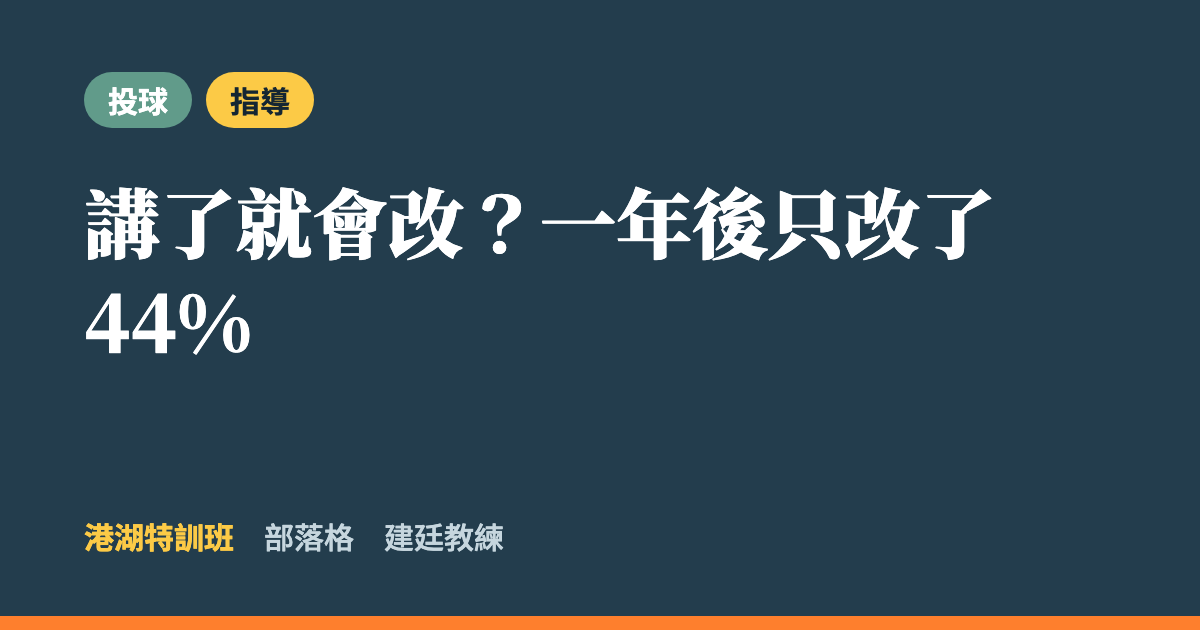
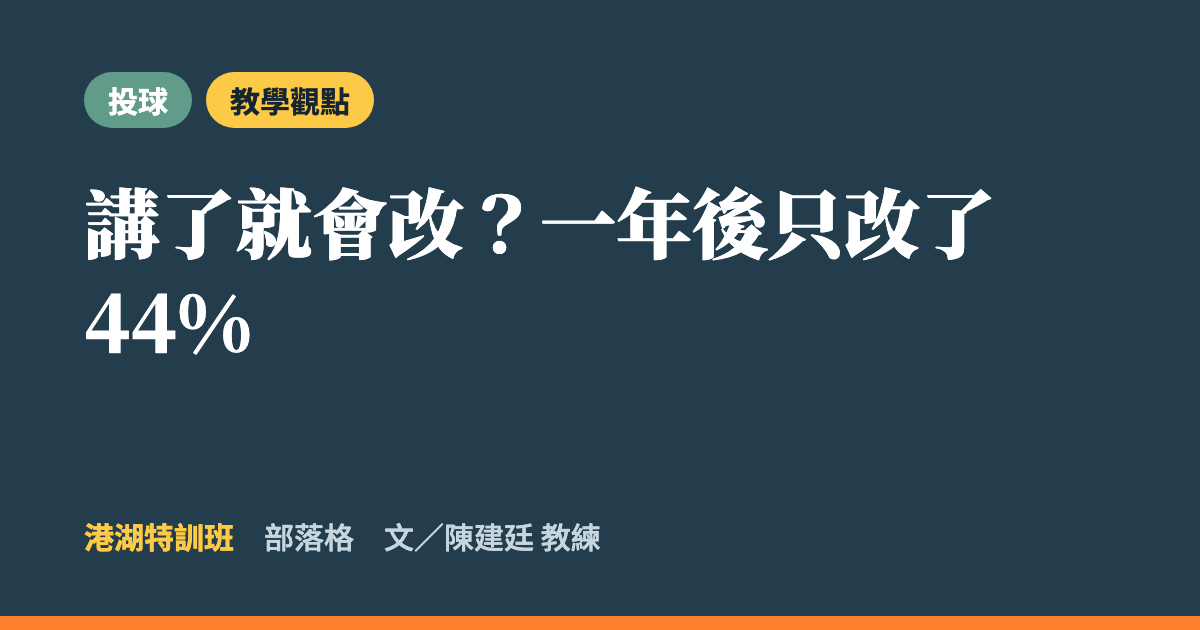
部落格：每篇加上作者，分類改為打擊、投球、守備、跑壘、棒球相關新聞與知識、教學觀點

Changed region(s): [[0.3083, 0.8143, 0.5242, 0.8746], [0.185, 0.0905, 0.3083, 0.2111]]

diff --git a/blog/index.html b/blog/index.html
@@ -1,6 +1,6 @@
 <!DOCTYPE html><html lang="zh-Hant-TW"><head><meta charset="UTF-8"><meta name="viewport" content="width=device-width, initial-scale=1"><meta name="color-scheme" content="light"><meta name="theme-color" content="#233D4D">
-<title>部落格｜港湖特訓班</title><meta name="description" content="用研究說明我們為什麼這樣教：打擊、投球、動力鏈、心理、指導。">
-<meta property="og:type" content="article"><meta property="og:site_name" content="港湖特訓班"><meta property="og:title" content="部落格｜港湖特訓班"><meta property="og:description" content="用研究說明我們為什麼這樣教：打擊、投球、動力鏈、心理、指導。"><meta property="og:url" content="https://ganghu-baseball.github.io/training/blog/"><meta property="og:image" content="https://ganghu-baseball.github.io/training/blog/og/blog.png"><meta property="og:image:width" content="1200"><meta property="og:image:height" content="630"><meta name="twitter:card" content="summary_large_image">
+<title>部落格｜港湖特訓班</title><meta name="description" content="用研究說明我們為什麼這樣教：打擊、投球、守備、跑壘、棒球新聞與知識、教學觀點。">
+<meta property="og:type" content="article"><meta property="og:site_name" content="港湖特訓班"><meta property="og:title" content="部落格｜港湖特訓班"><meta property="og:description" content="用研究說明我們為什麼這樣教：打擊、投球、守備、跑壘、棒球新聞與知識、教學觀點。"><meta property="og:url" content="https://ganghu-baseball.github.io/training/blog/"><meta property="og:image" content="https://ganghu-baseball.github.io/training/blog/og/blog.png"><meta property="og:image:width" content="1200"><meta property="og:image:height" content="630"><meta name="twitter:card" content="summary_large_image">
 <link rel="preconnect" href="https://fonts.googleapis.com"><link rel="preconnect" href="https://fonts.gstatic.com" crossorigin>
 <link href="https://fonts.googleapis.com/css2?family=Barlow+Condensed:wght@600;700&family=Noto+Sans+TC:wght@400;500;700;900&family=Noto+Serif+TC:wght@700;900&display=swap" rel="stylesheet">
 <link rel="stylesheet" href="blog.css"></head><body>
@@ -11,21 +11,21 @@
 <p>孩子在特訓班練的每一個動作、每一種練習，背後都有運動科學的研究。這裡用白話整理給家長看，讓你知道孩子在練什麼、為什麼這樣練，以及在家可以怎麼陪。</p>
 </div></div>
 <section><div class="wrap">
-<div class="filters" role="group" aria-label="文章分類"><button class="f on" data-c="">全部 <i>4</i></button><button class="f" data-c="打擊" style="--c:#FE7F2D;--fc:#fff">打擊 <i>1</i></button><button class="f" data-c="投球" style="--c:#619B8A;--fc:#fff">投球 <i>2</i></button><button class="f" data-c="動力鏈" style="--c:#2C4B5E;--fc:#fff">動力鏈 <i>0</i></button><button class="f" data-c="心理" style="--c:#7A9A5B;--fc:#fff">心理 <i>1</i></button><button class="f" data-c="指導" style="--c:#FCCA46;--fc:#152632">指導 <i>4</i></button></div>
-<div class="cdesc" data-c="打擊" hidden><b style="color:#FE7F2D">HITTING</b>揮棒、棒速、擊球品質，以及打擊數據怎麼看</div><div class="cdesc" data-c="投球" hidden><b style="color:#619B8A">PITCHING</b>投球動作、控球，以及怎麼保護孩子的手臂</div><div class="cdesc" data-c="動力鏈" hidden><b style="color:#2C4B5E">KINETIC CHAIN</b>力量怎麼從腳傳到手：髖、前腳、身體素質</div><div class="cdesc" data-c="心理" hidden><b style="color:#7A9A5B">MINDSET</b>判斷、選球、專注，還有比賽時的抗壓</div><div class="cdesc" data-c="指導" hidden><b style="color:#B8860B">COACHING</b>教練怎麼教、練習怎麼排、家長怎麼陪</div>
-<div class="cards"><a class="card" href="01-no-standard-swing.html" data-cats="打擊 指導">
-<div class="chips"><span class="chip"  style="background:#FE7F2D;color:#fff">打擊</span><span class="chip"  style="background:#FCCA46;color:#152632">指導</span></div>
+<div class="filters" role="group" aria-label="文章分類"><button class="f on" data-c="">全部 <i>4</i></button><button class="f" data-c="打擊" style="--c:#FE7F2D;--fc:#fff">打擊 <i>1</i></button><button class="f" data-c="投球" style="--c:#619B8A;--fc:#fff">投球 <i>2</i></button><button class="f" data-c="守備" style="--c:#2C4B5E;--fc:#fff">守備 <i>0</i></button><button class="f" data-c="跑壘" style="--c:#7A9A5B;--fc:#fff">跑壘 <i>0</i></button><button class="f" data-c="棒球相關新聞與知識" style="--c:#5F7684;--fc:#fff">棒球相關新聞與知識 <i>0</i></button><button class="f" data-c="教學觀點" style="--c:#FCCA46;--fc:#152632">教學觀點 <i>4</i></button></div>
+<div class="cdesc" data-c="打擊" hidden><b style="color:#FE7F2D">HITTING</b>揮棒、棒速、擊球品質，以及打擊數據怎麼看</div><div class="cdesc" data-c="投球" hidden><b style="color:#619B8A">PITCHING</b>投球動作、控球，以及怎麼保護孩子的手臂</div><div class="cdesc" data-c="守備" hidden><b style="color:#2C4B5E">FIELDING</b>接球、傳球、判斷球路與站位</div><div class="cdesc" data-c="跑壘" hidden><b style="color:#7A9A5B">BASERUNNING</b>起跑、盜壘、跑壘判斷</div><div class="cdesc" data-c="棒球相關新聞與知識" hidden><b style="color:#5F7684">NEWS & KNOWLEDGE</b>棒球圈的新研究、新觀念與值得一看的消息</div><div class="cdesc" data-c="教學觀點" hidden><b style="color:#B8860B">COACHING</b>我們為什麼這樣教、練習怎麼排、家長怎麼陪</div>
+<div class="cards"><a class="card" href="01-no-standard-swing.html" data-cats="打擊 教學觀點">
+<div class="chips"><span class="chip"  style="background:#FE7F2D;color:#fff">打擊</span><span class="chip"  style="background:#FCCA46;color:#152632">教學觀點</span></div>
 <h3>沒有「標準揮棒」這件事</h3><p>就算是職業選手，每一次揮棒也都不一樣。研究發現，打擊變好的時候，動作並沒有變得越來越一致，而是前後動作越來越會互相補位。</p>
-<span class="meta">2026.10.17　·　閱讀約 2 分鐘</span></a><a class="card" href="02-telling-is-not-fixing.html" data-cats="投球 指導">
-<div class="chips"><span class="chip"  style="background:#619B8A;color:#fff">投球</span><span class="chip"  style="background:#FCCA46;color:#152632">指導</span></div>
+<span class="meta">文／陳建廷 教練　·　2026.10.17　·　閱讀約 2 分鐘</span></a><a class="card" href="02-telling-is-not-fixing.html" data-cats="投球 教學觀點">
+<div class="chips"><span class="chip"  style="background:#619B8A;color:#fff">投球</span><span class="chip"  style="background:#FCCA46;color:#152632">教學觀點</span></div>
 <h3>講了就會改？一年後只改了 44%</h3><p>把動作的缺點講清楚，選手就會改過來嗎？美國的研究追蹤做過動作分析的投手，發現大約一年後，只有不到一半的缺點真的改掉了。</p>
-<span class="meta">2026.10.17　·　閱讀約 2 分鐘</span></a><a class="card" href="03-external-focus.html" data-cats="指導 投球">
-<div class="chips"><span class="chip"  style="background:#FCCA46;color:#152632">指導</span><span class="chip"  style="background:#619B8A;color:#fff">投球</span></div>
+<span class="meta">文／陳建廷 教練　·　2026.10.17　·　閱讀約 2 分鐘</span></a><a class="card" href="03-external-focus.html" data-cats="教學觀點 投球">
+<div class="chips"><span class="chip"  style="background:#FCCA46;color:#152632">教學觀點</span><span class="chip"  style="background:#619B8A;color:#fff">投球</span></div>
 <h3>少講手肘，多給目標</h3><p>「手肘抬高」和「投到捕手手套」，哪一句比較有用？研究建議把孩子的注意力放在目標上，但實際觀察發現，教練說的話大多還是在講身體。</p>
-<span class="meta">2026.10.17　·　閱讀約 2 分鐘</span></a><a class="card" href="04-analogy-learning.html" data-cats="指導 心理">
-<div class="chips"><span class="chip"  style="background:#FCCA46;color:#152632">指導</span><span class="chip"  style="background:#7A9A5B;color:#fff">心理</span></div>
+<span class="meta">文／陳建廷 教練　·　2026.10.17　·　閱讀約 2 分鐘</span></a><a class="card" href="04-analogy-learning.html" data-cats="教學觀點">
+<div class="chips"><span class="chip"  style="background:#FCCA46;color:#152632">教學觀點</span></div>
 <h3>一句比喻，勝過八個口令</h3><p>教孩子動作，給一句好記的比喻，比列出一串技術重點更好。研究發現，用比喻學的人，在分心、有壓力的時候，表現比較不會掉。</p>
-<span class="meta">2026.10.17　·　閱讀約 2 分鐘</span></a></div>
+<span class="meta">文／陳建廷 教練　·　2026.10.17　·　閱讀約 2 分鐘</span></a></div>
 <p id="empty" class="empty" hidden>這個分類的文章還在寫，敬請期待。</p>
 </div></section>
 <footer><div class="wrap">

diff --git a/blog/01-no-standard-swing.html b/blog/01-no-standard-swing.html
@@ -6,10 +6,10 @@
 <link rel="stylesheet" href="blog.css"></head><body>
 <header><div class="wrap bar"><a class="brand" href="../index.html">港湖特訓班</a><div class="topnav"><a href="../schedule.html">上課時段</a><a href="../philosophy.html">教學理念</a><a href="index.html" class="on">部落格</a></div></div></header>
 <div class="hero hero-plain"><div class="wrap narrow">
-<div class="chips"><a class="chip" href="index.html#打擊" style="background:#FE7F2D;color:#fff">打擊</a><a class="chip" href="index.html#指導" style="background:#FCCA46;color:#152632">指導</a></div>
+<div class="chips"><a class="chip" href="index.html#打擊" style="background:#FE7F2D;color:#fff">打擊</a><a class="chip" href="index.html#教學觀點" style="background:#FCCA46;color:#152632">教學觀點</a></div>
 <h1 class="atitle">沒有「標準揮棒」這件事</h1>
 <p>就算是職業選手，每一次揮棒也都不一樣。研究發現，打擊變好的時候，動作並沒有變得越來越一致，而是前後動作越來越會互相補位。</p>
-<p class="meta">陳建廷 教練　·　2026.10.17　·　閱讀約 2 分鐘</p>
+<p class="meta">文／陳建廷 教練　·　2026.10.17　·　閱讀約 2 分鐘</p>
 </div></div>
 <article><div class="wrap narrow prose">
 <p>常有家長問我：「我家小孩的揮棒，是不是不夠標準？」</p>
@@ -31,18 +31,19 @@
 <aside class="box note"><b>這個研究的限制</b><p>Gray（2020）的訓練是在虛擬實境裡做的，對象是有 8 年以上球齡的高中選手；Matsuo 等人的研究只有 12 位投手。這兩篇研究說明的是「好的動作長什麼樣子」，不是說動作完全不用教。</p></aside>
 <div class="refs"><b>研究出處</b><ol><li>Gray, R. (2020). Changes in movement coordination associated with skill acquisition in baseball batting: Freezing/freeing degrees of freedom and functional variability. Frontiers in Psychology, 11, 1295. <a href="https://doi.org/10.3389/fpsyg.2020.01295" target="_blank" rel="noopener">doi:10.3389/fpsyg.2020.01295</a></li><li>Matsuo, T., Jinji, T., Hirayama, D., Nasu, D., Katsumata, Y., &amp; Morishita, Y. (2020). Consistent hand dynamics are achieved by controlling variabilities among joint movements during fastball pitching. Frontiers in Sports and Active Living, 2, 579377. <a href="https://doi.org/10.3389/fspor.2020.579377" target="_blank" rel="noopener">doi:10.3389/fspor.2020.579377</a></li></ol>
 <p>點 doi 連結可以看到論文原文頁面。文中的數字和說明，是我們讀完原文後用白話整理的。</p></div>
+<div class="author"><span class="av">廷</span><div><b>陳建廷 教練</b><p>港湖特訓班教練，也是特訓班的行政窗口。這裡的文章都是我讀完研究原文後，用白話整理給家長看的。</p><a href="https://line.me/ti/p/C7_3eDtcAF" target="_blank" rel="noopener">有問題歡迎 LINE 問我 →</a></div></div>
 <div class="endnav"><a class="back" href="index.html">← 回部落格</a></div>
 </div></article>
-<section class="related"><div class="wrap narrow"><p class="lbl">MORE <b>同類文章</b></p><div class="cards"><a class="card" href="02-telling-is-not-fixing.html" data-cats="投球 指導">
-<div class="chips"><span class="chip"  style="background:#619B8A;color:#fff">投球</span><span class="chip"  style="background:#FCCA46;color:#152632">指導</span></div>
+<section class="related"><div class="wrap narrow"><p class="lbl">MORE <b>同類文章</b></p><div class="cards"><a class="card" href="02-telling-is-not-fixing.html" data-cats="投球 教學觀點">
+<div class="chips"><span class="chip"  style="background:#619B8A;color:#fff">投球</span><span class="chip"  style="background:#FCCA46;color:#152632">教學觀點</span></div>
 <h3>講了就會改？一年後只改了 44%</h3><p>把動作的缺點講清楚，選手就會改過來嗎？美國的研究追蹤做過動作分析的投手，發現大約一年後，只有不到一半的缺點真的改掉了。</p>
-<span class="meta">2026.10.17　·　閱讀約 2 分鐘</span></a><a class="card" href="03-external-focus.html" data-cats="指導 投球">
-<div class="chips"><span class="chip"  style="background:#FCCA46;color:#152632">指導</span><span class="chip"  style="background:#619B8A;color:#fff">投球</span></div>
+<span class="meta">文／陳建廷 教練　·　2026.10.17　·　閱讀約 2 分鐘</span></a><a class="card" href="03-external-focus.html" data-cats="教學觀點 投球">
+<div class="chips"><span class="chip"  style="background:#FCCA46;color:#152632">教學觀點</span><span class="chip"  style="background:#619B8A;color:#fff">投球</span></div>
 <h3>少講手肘，多給目標</h3><p>「手肘抬高」和「投到捕手手套」，哪一句比較有用？研究建議把孩子的注意力放在目標上，但實際觀察發現，教練說的話大多還是在講身體。</p>
-<span class="meta">2026.10.17　·　閱讀約 2 分鐘</span></a><a class="card" href="04-analogy-learning.html" data-cats="指導 心理">
-<div class="chips"><span class="chip"  style="background:#FCCA46;color:#152632">指導</span><span class="chip"  style="background:#7A9A5B;color:#fff">心理</span></div>
+<span class="meta">文／陳建廷 教練　·　2026.10.17　·　閱讀約 2 分鐘</span></a><a class="card" href="04-analogy-learning.html" data-cats="教學觀點">
+<div class="chips"><span class="chip"  style="background:#FCCA46;color:#152632">教學觀點</span></div>
 <h3>一句比喻，勝過八個口令</h3><p>教孩子動作，給一句好記的比喻，比列出一串技術重點更好。研究發現，用比喻學的人，在分心、有壓力的時候，表現比較不會掉。</p>
-<span class="meta">2026.10.17　·　閱讀約 2 分鐘</span></a></div></div></section>
+<span class="meta">文／陳建廷 教練　·　2026.10.17　·　閱讀約 2 分鐘</span></a></div></div></section>
 <footer><div class="wrap">
 <div class="contact"><b>特訓班行政窗口</b>
 <p><strong>陳建廷 教練</strong>　課程、時段與費用相關問題，歡迎直接 LINE 詢問。</p>

diff --git a/blog/03-external-focus.html b/blog/03-external-focus.html
@@ -6,10 +6,10 @@
 <link rel="stylesheet" href="blog.css"></head><body>
 <header><div class="wrap bar"><a class="brand" href="../index.html">港湖特訓班</a><div class="topnav"><a href="../schedule.html">上課時段</a><a href="../philosophy.html">教學理念</a><a href="index.html" class="on">部落格</a></div></div></header>
 <div class="hero hero-plain"><div class="wrap narrow">
-<div class="chips"><a class="chip" href="index.html#指導" style="background:#FCCA46;color:#152632">指導</a><a class="chip" href="index.html#投球" style="background:#619B8A;color:#fff">投球</a></div>
+<div class="chips"><a class="chip" href="index.html#教學觀點" style="background:#FCCA46;color:#152632">教學觀點</a><a class="chip" href="index.html#投球" style="background:#619B8A;color:#fff">投球</a></div>
 <h1 class="atitle">少講手肘，多給目標</h1>
 <p>「手肘抬高」和「投到捕手手套」，哪一句比較有用？研究建議把孩子的注意力放在目標上，但實際觀察發現，教練說的話大多還是在講身體。</p>
-<p class="meta">陳建廷 教練　·　2026.10.17　·　閱讀約 2 分鐘</p>
+<p class="meta">文／陳建廷 教練　·　2026.10.17　·　閱讀約 2 分鐘</p>
 </div></div>
 <article><div class="wrap narrow prose">
 <p>「手肘抬高！」「腰要轉！」「身體不要開！」</p>
@@ -31,18 +31,19 @@
 <aside class="box note"><b>這個研究的限制</b><p>van der Graaff 的研究只觀察了荷蘭的 6 位教練，記錄的是教練怎麼說，沒有測量這些說法對投手表現的影響。「外部焦點比較有效」的證據，主要來自其他實驗研究的整理（Wulf &amp; Lewthwaite, 2016）。</p></aside>
 <div class="refs"><b>研究出處</b><ol><li>Wulf, G., &amp; Lewthwaite, R. (2016). Optimizing performance through intrinsic motivation and attention for learning: The OPTIMAL theory of motor learning. Psychonomic Bulletin &amp; Review, 23(5), 1382–1414. <a href="https://doi.org/10.3758/s13423-015-0999-9" target="_blank" rel="noopener">doi:10.3758/s13423-015-0999-9</a></li><li>van der Graaff, E., Hoozemans, M., Pasteuning, M., Veeger, D., &amp; Beek, P. J. (2018). Focus of attention instructions during baseball pitching training. International Journal of Sports Science &amp; Coaching, 13(3), 391–397. <a href="https://doi.org/10.1177/1747954117711095" target="_blank" rel="noopener">doi:10.1177/1747954117711095</a></li></ol>
 <p>點 doi 連結可以看到論文原文頁面。文中的數字和說明，是我們讀完原文後用白話整理的。</p></div>
+<div class="author"><span class="av">廷</span><div><b>陳建廷 教練</b><p>港湖特訓班教練，也是特訓班的行政窗口。這裡的文章都是我讀完研究原文後，用白話整理給家長看的。</p><a href="https://line.me/ti/p/C7_3eDtcAF" target="_blank" rel="noopener">有問題歡迎 LINE 問我 →</a></div></div>
 <div class="endnav"><a class="back" href="index.html">← 回部落格</a></div>
 </div></article>
-<section class="related"><div class="wrap narrow"><p class="lbl">MORE <b>同類文章</b></p><div class="cards"><a class="card" href="01-no-standard-swing.html" data-cats="打擊 指導">
-<div class="chips"><span class="chip"  style="background:#FE7F2D;color:#fff">打擊</span><span class="chip"  style="background:#FCCA46;color:#152632">指導</span></div>
+<section class="related"><div class="wrap narrow"><p class="lbl">MORE <b>同類文章</b></p><div class="cards"><a class="card" href="01-no-standard-swing.html" data-cats="打擊 教學觀點">
+<div class="chips"><span class="chip"  style="background:#FE7F2D;color:#fff">打擊</span><span class="chip"  style="background:#FCCA46;color:#152632">教學觀點</span></div>
 <h3>沒有「標準揮棒」這件事</h3><p>就算是職業選手，每一次揮棒也都不一樣。研究發現，打擊變好的時候，動作並沒有變得越來越一致，而是前後動作越來越會互相補位。</p>
-<span class="meta">2026.10.17　·　閱讀約 2 分鐘</span></a><a class="card" href="02-telling-is-not-fixing.html" data-cats="投球 指導">
-<div class="chips"><span class="chip"  style="background:#619B8A;color:#fff">投球</span><span class="chip"  style="background:#FCCA46;color:#152632">指導</span></div>
+<span class="meta">文／陳建廷 教練　·　2026.10.17　·　閱讀約 2 分鐘</span></a><a class="card" href="02-telling-is-not-fixing.html" data-cats="投球 教學觀點">
+<div class="chips"><span class="chip"  style="background:#619B8A;color:#fff">投球</span><span class="chip"  style="background:#FCCA46;color:#152632">教學觀點</span></div>
 <h3>講了就會改？一年後只改了 44%</h3><p>把動作的缺點講清楚，選手就會改過來嗎？美國的研究追蹤做過動作分析的投手，發現大約一年後，只有不到一半的缺點真的改掉了。</p>
-<span class="meta">2026.10.17　·　閱讀約 2 分鐘</span></a><a class="card" href="04-analogy-learning.html" data-cats="指導 心理">
-<div class="chips"><span class="chip"  style="background:#FCCA46;color:#152632">指導</span><span class="chip"  style="background:#7A9A5B;color:#fff">心理</span></div>
+<span class="meta">文／陳建廷 教練　·　2026.10.17　·　閱讀約 2 分鐘</span></a><a class="card" href="04-analogy-learning.html" data-cats="教學觀點">
+<div class="chips"><span class="chip"  style="background:#FCCA46;color:#152632">教學觀點</span></div>
 <h3>一句比喻，勝過八個口令</h3><p>教孩子動作，給一句好記的比喻，比列出一串技術重點更好。研究發現，用比喻學的人，在分心、有壓力的時候，表現比較不會掉。</p>
-<span class="meta">2026.10.17　·　閱讀約 2 分鐘</span></a></div></div></section>
+<span class="meta">文／陳建廷 教練　·　2026.10.17　·　閱讀約 2 分鐘</span></a></div></div></section>
 <footer><div class="wrap">
 <div class="contact"><b>特訓班行政窗口</b>
 <p><strong>陳建廷 教練</strong>　課程、時段與費用相關問題，歡迎直接 LINE 詢問。</p>

diff --git a/blog/04-analogy-learning.html b/blog/04-analogy-learning.html
@@ -6,10 +6,10 @@
 <link rel="stylesheet" href="blog.css"></head><body>
 <header><div class="wrap bar"><a class="brand" href="../index.html">港湖特訓班</a><div class="topnav"><a href="../schedule.html">上課時段</a><a href="../philosophy.html">教學理念</a><a href="index.html" class="on">部落格</a></div></div></header>
 <div class="hero hero-plain"><div class="wrap narrow">
-<div class="chips"><a class="chip" href="index.html#指導" style="background:#FCCA46;color:#152632">指導</a><a class="chip" href="index.html#心理" style="background:#7A9A5B;color:#fff">心理</a></div>
+<div class="chips"><a class="chip" href="index.html#教學觀點" style="background:#FCCA46;color:#152632">教學觀點</a></div>
 <h1 class="atitle">一句比喻，勝過八個口令</h1>
 <p>教孩子動作，給一句好記的比喻，比列出一串技術重點更好。研究發現，用比喻學的人，在分心、有壓力的時候，表現比較不會掉。</p>
-<p class="meta">陳建廷 教練　·　2026.10.17　·　閱讀約 2 分鐘</p>
+<p class="meta">文／陳建廷 教練　·　2026.10.17　·　閱讀約 2 分鐘</p>
 </div></div>
 <article><div class="wrap narrow prose">
 <p>教一個動作的時候，我們常常想把所有重點都講清楚：腳怎麼站、手怎麼擺、什麼時候轉身……講完五六個重點，孩子點頭說好，一上場還是一樣。</p>
@@ -32,18 +32,19 @@
 <aside class="box note"><b>這個研究的限制</b><p>這個研究每組只有 9 人，練的是坐著投籃，不是棒球。不過作者指出，在桌球等其他運動的研究裡，也看過「用比喻學比較抗壓」的類似結果。</p></aside>
 <div class="refs"><b>研究出處</b><ol><li>Lam, W. K., Maxwell, J. P., &amp; Masters, R. S. W. (2009). Analogy versus explicit learning of a modified basketball shooting task: Performance and kinematic outcomes. Journal of Sports Sciences, 27(2), 179–191. <a href="https://doi.org/10.1080/02640410802448764" target="_blank" rel="noopener">doi:10.1080/02640410802448764</a></li></ol>
 <p>點 doi 連結可以看到論文原文頁面。文中的數字和說明，是我們讀完原文後用白話整理的。</p></div>
+<div class="author"><span class="av">廷</span><div><b>陳建廷 教練</b><p>港湖特訓班教練，也是特訓班的行政窗口。這裡的文章都是我讀完研究原文後，用白話整理給家長看的。</p><a href="https://line.me/ti/p/C7_3eDtcAF" target="_blank" rel="noopener">有問題歡迎 LINE 問我 →</a></div></div>
 <div class="endnav"><a class="back" href="index.html">← 回部落格</a></div>
 </div></article>
-<section class="related"><div class="wrap narrow"><p class="lbl">MORE <b>同類文章</b></p><div class="cards"><a class="card" href="01-no-standard-swing.html" data-cats="打擊 指導">
-<div class="chips"><span class="chip"  style="background:#FE7F2D;color:#fff">打擊</span><span class="chip"  style="background:#FCCA46;color:#152632">指導</span></div>
+<section class="related"><div class="wrap narrow"><p class="lbl">MORE <b>同類文章</b></p><div class="cards"><a class="card" href="01-no-standard-swing.html" data-cats="打擊 教學觀點">
+<div class="chips"><span class="chip"  style="background:#FE7F2D;color:#fff">打擊</span><span class="chip"  style="background:#FCCA46;color:#152632">教學觀點</span></div>
 <h3>沒有「標準揮棒」這件事</h3><p>就算是職業選手，每一次揮棒也都不一樣。研究發現，打擊變好的時候，動作並沒有變得越來越一致，而是前後動作越來越會互相補位。</p>
-<span class="meta">2026.10.17　·　閱讀約 2 分鐘</span></a><a class="card" href="02-telling-is-not-fixing.html" data-cats="投球 指導">
-<div class="chips"><span class="chip"  style="background:#619B8A;color:#fff">投球</span><span class="chip"  style="background:#FCCA46;color:#152632">指導</span></div>
+<span class="meta">文／陳建廷 教練　·　2026.10.17　·　閱讀約 2 分鐘</span></a><a class="card" href="02-telling-is-not-fixing.html" data-cats="投球 教學觀點">
+<div class="chips"><span class="chip"  style="background:#619B8A;color:#fff">投球</span><span class="chip"  style="background:#FCCA46;color:#152632">教學觀點</span></div>
 <h3>講了就會改？一年後只改了 44%</h3><p>把動作的缺點講清楚，選手就會改過來嗎？美國的研究追蹤做過動作分析的投手，發現大約一年後，只有不到一半的缺點真的改掉了。</p>
-<span class="meta">2026.10.17　·　閱讀約 2 分鐘</span></a><a class="card" href="03-external-focus.html" data-cats="指導 投球">
-<div class="chips"><span class="chip"  style="background:#FCCA46;color:#152632">指導</span><span class="chip"  style="background:#619B8A;color:#fff">投球</span></div>
+<span class="meta">文／陳建廷 教練　·　2026.10.17　·　閱讀約 2 分鐘</span></a><a class="card" href="03-external-focus.html" data-cats="教學觀點 投球">
+<div class="chips"><span class="chip"  style="background:#FCCA46;color:#152632">教學觀點</span><span class="chip"  style="background:#619B8A;color:#fff">投球</span></div>
 <h3>少講手肘，多給目標</h3><p>「手肘抬高」和「投到捕手手套」，哪一句比較有用？研究建議把孩子的注意力放在目標上，但實際觀察發現，教練說的話大多還是在講身體。</p>
-<span class="meta">2026.10.17　·　閱讀約 2 分鐘</span></a></div></div></section>
+<span class="meta">文／陳建廷 教練　·　2026.10.17　·　閱讀約 2 分鐘</span></a></div></div></section>
 <footer><div class="wrap">
 <div class="contact"><b>特訓班行政窗口</b>
 <p><strong>陳建廷 教練</strong>　課程、時段與費用相關問題，歡迎直接 LINE 詢問。</p>

diff --git a/blog/02-telling-is-not-fixing.html b/blog/02-telling-is-not-fixing.html
@@ -6,10 +6,10 @@
 <link rel="stylesheet" href="blog.css"></head><body>
 <header><div class="wrap bar"><a class="brand" href="../index.html">港湖特訓班</a><div class="topnav"><a href="../schedule.html">上課時段</a><a href="../philosophy.html">教學理念</a><a href="index.html" class="on">部落格</a></div></div></header>
 <div class="hero hero-plain"><div class="wrap narrow">
-<div class="chips"><a class="chip" href="index.html#投球" style="background:#619B8A;color:#fff">投球</a><a class="chip" href="index.html#指導" style="background:#FCCA46;color:#152632">指導</a></div>
+<div class="chips"><a class="chip" href="index.html#投球" style="background:#619B8A;color:#fff">投球</a><a class="chip" href="index.html#教學觀點" style="background:#FCCA46;color:#152632">教學觀點</a></div>
 <h1 class="atitle">講了就會改？一年後只改了 44%</h1>
 <p>把動作的缺點講清楚，選手就會改過來嗎？美國的研究追蹤做過動作分析的投手，發現大約一年後，只有不到一半的缺點真的改掉了。</p>
-<p class="meta">陳建廷 教練　·　2026.10.17　·　閱讀約 2 分鐘</p>
+<p class="meta">文／陳建廷 教練　·　2026.10.17　·　閱讀約 2 分鐘</p>
 </div></div>
 <article><div class="wrap narrow prose">
 <p>很多人學運動的經驗是這樣的：教練看一看，說「你手肘太低」「你身體太早開」，接下來就靠自己記住、自己改。</p>
@@ -30,18 +30,19 @@
 <aside class="box note"><b>這個研究的限制</b><p>這個研究的人數不多（46 人），兩次測量的間隔從 2 個月到 4 年都有，也沒有控制選手中間怎麼練，作者沒有做統計檢定。所以 44% 是一個參考數字，不是定論。</p></aside>
 <div class="refs"><b>研究出處</b><ol><li>Fleisig, G. S., Diffendaffer, A. Z., Ivey, B., &amp; Aune, K. T. (2018). Do baseball pitchers improve mechanics after biomechanical evaluations? Sports Biomechanics, 17(3), 314–321. <a href="https://doi.org/10.1080/14763141.2017.1340508" target="_blank" rel="noopener">doi:10.1080/14763141.2017.1340508</a></li></ol>
 <p>點 doi 連結可以看到論文原文頁面。文中的數字和說明，是我們讀完原文後用白話整理的。</p></div>
+<div class="author"><span class="av">廷</span><div><b>陳建廷 教練</b><p>港湖特訓班教練，也是特訓班的行政窗口。這裡的文章都是我讀完研究原文後，用白話整理給家長看的。</p><a href="https://line.me/ti/p/C7_3eDtcAF" target="_blank" rel="noopener">有問題歡迎 LINE 問我 →</a></div></div>
 <div class="endnav"><a class="back" href="index.html">← 回部落格</a></div>
 </div></article>
-<section class="related"><div class="wrap narrow"><p class="lbl">MORE <b>同類文章</b></p><div class="cards"><a class="card" href="01-no-standard-swing.html" data-cats="打擊 指導">
-<div class="chips"><span class="chip"  style="background:#FE7F2D;color:#fff">打擊</span><span class="chip"  style="background:#FCCA46;color:#152632">指導</span></div>
+<section class="related"><div class="wrap narrow"><p class="lbl">MORE <b>同類文章</b></p><div class="cards"><a class="card" href="01-no-standard-swing.html" data-cats="打擊 教學觀點">
+<div class="chips"><span class="chip"  style="background:#FE7F2D;color:#fff">打擊</span><span class="chip"  style="background:#FCCA46;color:#152632">教學觀點</span></div>
 <h3>沒有「標準揮棒」這件事</h3><p>就算是職業選手，每一次揮棒也都不一樣。研究發現，打擊變好的時候，動作並沒有變得越來越一致，而是前後動作越來越會互相補位。</p>
-<span class="meta">2026.10.17　·　閱讀約 2 分鐘</span></a><a class="card" href="03-external-focus.html" data-cats="指導 投球">
-<div class="chips"><span class="chip"  style="background:#FCCA46;color:#152632">指導</span><span class="chip"  style="background:#619B8A;color:#fff">投球</span></div>
+<span class="meta">文／陳建廷 教練　·　2026.10.17　·　閱讀約 2 分鐘</span></a><a class="card" href="03-external-focus.html" data-cats="教學觀點 投球">
+<div class="chips"><span class="chip"  style="background:#FCCA46;color:#152632">教學觀點</span><span class="chip"  style="background:#619B8A;color:#fff">投球</span></div>
 <h3>少講手肘，多給目標</h3><p>「手肘抬高」和「投到捕手手套」，哪一句比較有用？研究建議把孩子的注意力放在目標上，但實際觀察發現，教練說的話大多還是在講身體。</p>
-<span class="meta">2026.10.17　·　閱讀約 2 分鐘</span></a><a class="card" href="04-analogy-learning.html" data-cats="指導 心理">
-<div class="chips"><span class="chip"  style="background:#FCCA46;color:#152632">指導</span><span class="chip"  style="background:#7A9A5B;color:#fff">心理</span></div>
+<span class="meta">文／陳建廷 教練　·　2026.10.17　·　閱讀約 2 分鐘</span></a><a class="card" href="04-analogy-learning.html" data-cats="教學觀點">
+<div class="chips"><span class="chip"  style="background:#FCCA46;color:#152632">教學觀點</span></div>
 <h3>一句比喻，勝過八個口令</h3><p>教孩子動作，給一句好記的比喻，比列出一串技術重點更好。研究發現，用比喻學的人，在分心、有壓力的時候，表現比較不會掉。</p>
-<span class="meta">2026.10.17　·　閱讀約 2 分鐘</span></a></div></div></section>
+<span class="meta">文／陳建廷 教練　·　2026.10.17　·　閱讀約 2 分鐘</span></a></div></div></section>
 <footer><div class="wrap">
 <div class="contact"><b>特訓班行政窗口</b>
 <p><strong>陳建廷 教練</strong>　課程、時段與費用相關問題，歡迎直接 LINE 詢問。</p>

diff --git a/blog/blog.css b/blog/blog.css
@@ -340,3 +340,8 @@ padding:22px 26px;margin:1.4em 0 1.5em}
 .related .cards{grid-template-columns:repeat(auto-fill,minmax(220px,1fr))}
 .related .card h3{font-size:19px}
 @media(max-width:560px){.topnav{gap:6px}.topnav a{font-size:12.5px;padding:6px 9px}.brand{font-size:15px}}
+.author{display:flex;gap:16px;align-items:flex-start;margin-top:2.2em;background:#fff;border:1px solid var(--line);border-radius:var(--r);padding:20px 22px}
+.author .av{flex:0 0 52px;height:52px;border-radius:50%;background:var(--navy);color:#fff;display:flex;align-items:center;justify-content:center;font-family:"Noto Serif TC",serif;font-weight:900;font-size:22px;box-shadow:0 0 0 3px var(--or)}
+.author b{font-family:"Noto Serif TC",serif;font-size:18px;color:var(--ink)}
+.author p{font-size:15px;line-height:1.75;color:var(--ink2);margin:4px 0 6px}
+.author a{font-size:14px;font-weight:700;color:var(--or-d);text-decoration:none}
